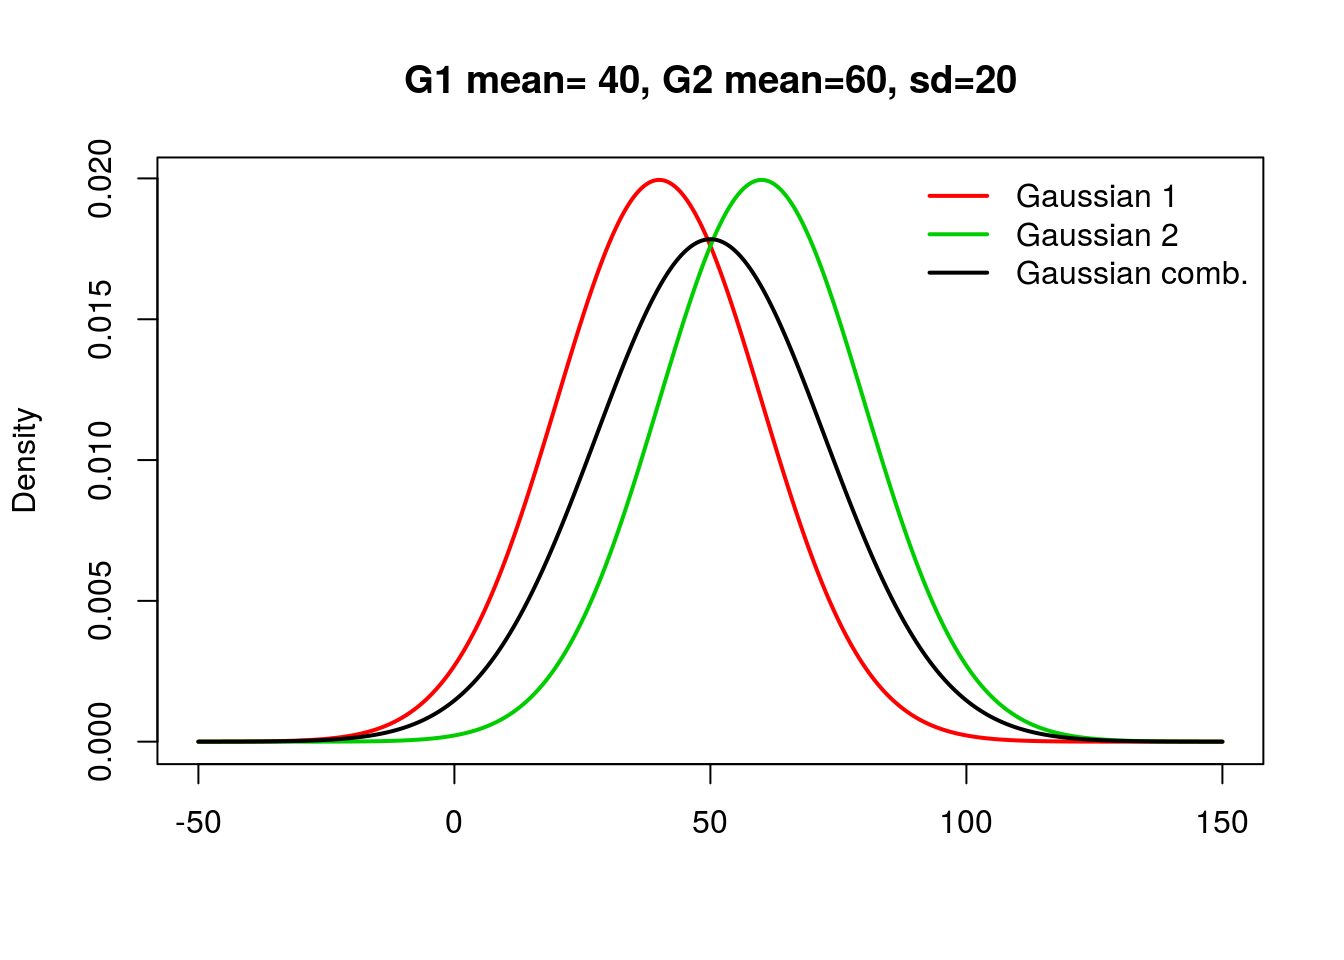
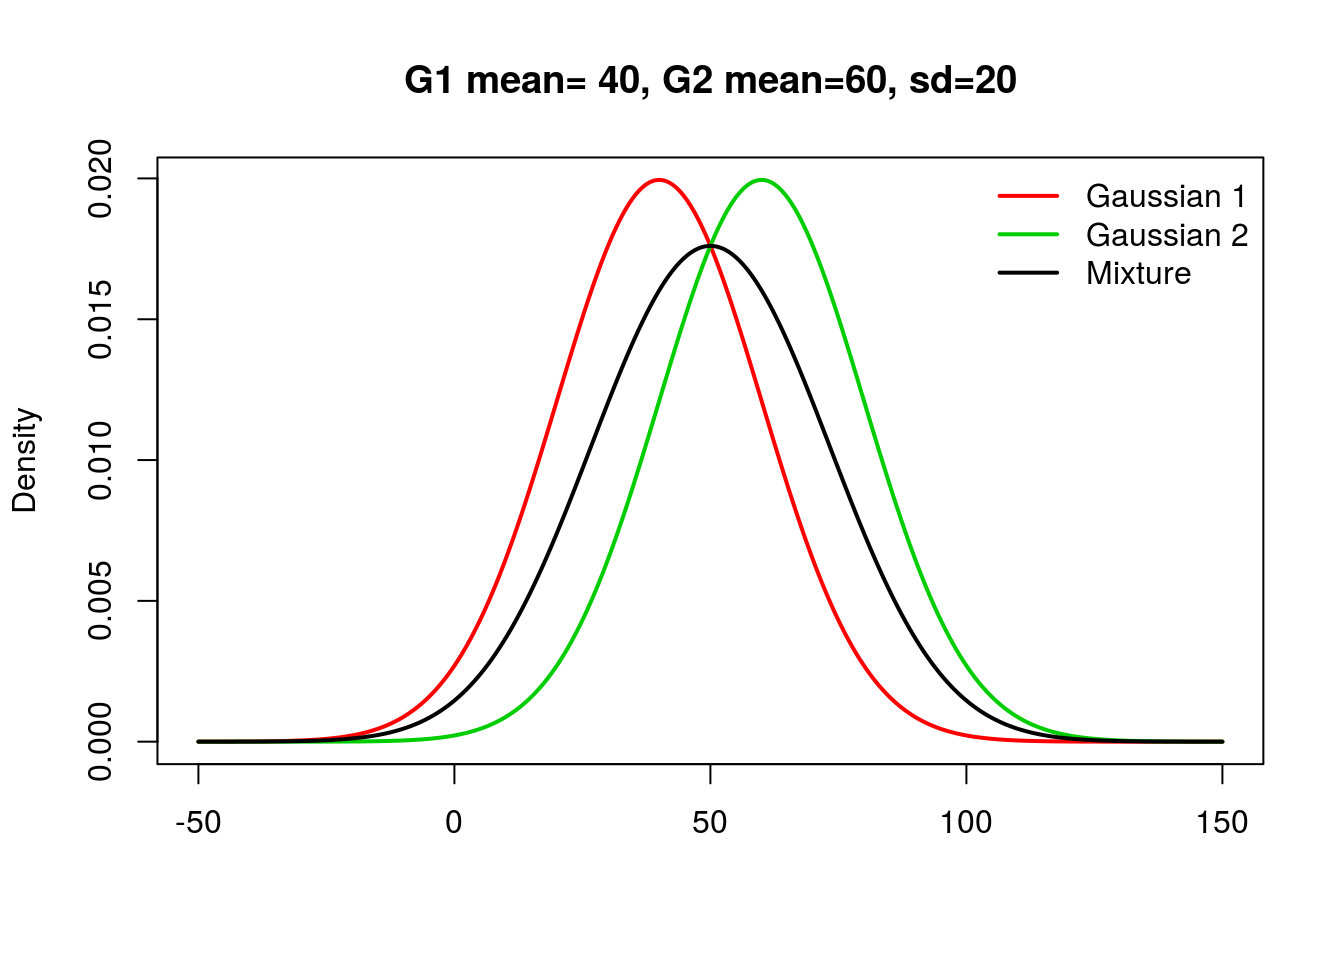
Update Estimating Moments of a Mixture post.

diff --git a/content/post/2018-04-10-estimating-moments-of-a-mixture-distribution.html b/content/post/2018-04-10-estimating-moments-of-a-mixture-distribution.html
@@ -36,16 +36,16 @@ weight.1</code></pre>
 <pre><code>## [1] 0.5</code></pre>
 <pre class="r"><code>weight.2</code></pre>
 <pre><code>## [1] 0.5</code></pre>
-<pre class="r"><code>Combined.mean &lt;- weight.1*Gaussian.1.mean + weight.2*Gaussian.2.mean
-Combined.sd &lt;- sqrt(weight.1*Gaussian.1.sd^2 + weight.2*Gaussian.2.sd^2 + weight.1*weight.2*(Gaussian.1.mean-Gaussian.2.mean)^2) 
+<pre class="r"><code>Mixture.mean &lt;- weight.1*Gaussian.1.mean + weight.2*Gaussian.2.mean
+Mixture.sd &lt;- sqrt(weight.1*Gaussian.1.sd^2 + weight.2*Gaussian.2.sd^2 + weight.1*weight.2*(Gaussian.1.mean-Gaussian.2.mean)^2) 
 
 
-Gaussian.combined &lt;- dnorm(x, mean = Combined.mean, sd = Combined.sd)
+Mixture &lt;- Gaussian.1 * weight.1 + Gaussian.2 * weight.2 
 
 plot(x, Gaussian.1, col=2, type=&quot;l&quot;,  xlab = &quot;&quot;, ylab=&quot;Density&quot;, lwd=2)
 lines(x, Gaussian.2, col=3, lwd=2)
-lines(x, Gaussian.combined, col=1, lwd=2)
-legend(&quot;toprigh&quot;, bty=&quot;n&quot;, col=c(2,3,1), c(&quot;Gaussian 1&quot;, &quot;Gaussian 2&quot;, &quot;Gaussian comb.&quot;), lty=1, lwd=2)</code></pre>
+lines(x, Mixture, col=1, lwd=2)
+legend(&quot;toprigh&quot;, bty=&quot;n&quot;, col=c(2,3,1), c(&quot;Gaussian 1&quot;, &quot;Gaussian 2&quot;, &quot;Mixture&quot;), lty=1, lwd=2)</code></pre>
 <p><img src="/post/2018-04-10-estimating-moments-of-a-mixture-distribution_files/figure-html/unnamed-chunk-2-1.png" width="672" /></p>
 </div>
 <div id="particular-cases" class="section level2">
@@ -59,22 +59,18 @@ for (sd in seq(10,30,10)){
   Gaussian.1 &lt;- dnorm(x, mean = Gaussian.1.mean, sd = Gaussian.1.sd)
   Gaussian.2 &lt;- dnorm(x, mean = Gaussian.2.mean, sd = Gaussian.2.sd)
   
-  
   weight.1 = (1/Gaussian.1.sd^2)/((1/Gaussian.1.sd^2)+(1/Gaussian.2.sd^2))
   weight.2 = (1/Gaussian.2.sd^2)/((1/Gaussian.1.sd^2)+(1/Gaussian.2.sd^2))
-  weight.1
-  weight.2
   
-  Combined.mean &lt;- weight.1*Gaussian.1.mean + weight.2*Gaussian.2.mean
-  Combined.sd &lt;- sqrt(weight.1*Gaussian.1.sd^2 + weight.2*Gaussian.2.sd^2 + weight.1*weight.2*(Gaussian.1.mean-Gaussian.2.mean)^2) 
+  Mixture.mean &lt;- weight.1*Gaussian.1.mean + weight.2*Gaussian.2.mean
+  Mixture.sd &lt;- sqrt(weight.1*Gaussian.1.sd^2 + weight.2*Gaussian.2.sd^2 + weight.1*weight.2*(Gaussian.1.mean-Gaussian.2.mean)^2) 
   
-  
-  Gaussian.combined &lt;- dnorm(x, mean = Combined.mean, sd = Combined.sd)
+  Mixture &lt;- Gaussian.1 * weight.1 + Gaussian.2 * weight.2 
   
   plot(x, Gaussian.1, col=2, type=&quot;l&quot;,  xlab = &quot;&quot;, ylab=&quot;Density&quot;, lwd=2, main=paste0(&quot;G1 mean= 40, G2 mean=60, sd=&quot;,sd))
   lines(x, Gaussian.2, col=3, lwd=2)
-  lines(x, Gaussian.combined, col=1, lwd=2)
-  legend(&quot;toprigh&quot;, bty=&quot;n&quot;, col=c(2,3,1), c(&quot;Gaussian 1&quot;, &quot;Gaussian 2&quot;, &quot;Gaussian comb.&quot;), lty=1, lwd=2)
+  lines(x, Mixture, col=1, lwd=2)
+  legend(&quot;toprigh&quot;, bty=&quot;n&quot;, col=c(2,3,1), c(&quot;Gaussian 1&quot;, &quot;Gaussian 2&quot;, &quot;Mixture&quot;), lty=1, lwd=2)
 }</code></pre>
 <p><img src="/post/2018-04-10-estimating-moments-of-a-mixture-distribution_files/figure-html/unnamed-chunk-3-1.png" width="672" /><img src="/post/2018-04-10-estimating-moments-of-a-mixture-distribution_files/figure-html/unnamed-chunk-3-2.png" width="672" /><img src="/post/2018-04-10-estimating-moments-of-a-mixture-distribution_files/figure-html/unnamed-chunk-3-3.png" width="672" /></p>
 <pre class="r"><code>Gaussian.1.sd &lt;- 10
@@ -87,22 +83,18 @@ for (i in seq(10,30,10)){
   Gaussian.1 &lt;- dnorm(x, mean = Gaussian.1.mean, sd = Gaussian.1.sd)
   Gaussian.2 &lt;- dnorm(x, mean = Gaussian.2.mean, sd = Gaussian.2.sd)
   
-  
   weight.1 = (1/Gaussian.1.sd^2)/((1/Gaussian.1.sd^2)+(1/Gaussian.2.sd^2))
   weight.2 = (1/Gaussian.2.sd^2)/((1/Gaussian.1.sd^2)+(1/Gaussian.2.sd^2))
-  weight.1
-  weight.2
   
-  Combined.mean &lt;- weight.1*Gaussian.1.mean + weight.2*Gaussian.2.mean
-  Combined.sd &lt;- sqrt(weight.1*Gaussian.1.sd^2 + weight.2*Gaussian.2.sd^2 + weight.1*weight.2*(Gaussian.1.mean-Gaussian.2.mean)^2) 
+  Mixture.mean &lt;- weight.1*Gaussian.1.mean + weight.2*Gaussian.2.mean
+  Mixture.sd &lt;- sqrt(weight.1*Gaussian.1.sd^2 + weight.2*Gaussian.2.sd^2 + weight.1*weight.2*(Gaussian.1.mean-Gaussian.2.mean)^2) 
   
-  
-  Gaussian.combined &lt;- dnorm(x, mean = Combined.mean, sd = Combined.sd)
+  Mixture &lt;- Gaussian.1 * weight.1 + Gaussian.2 * weight.2 
   
   plot(x, Gaussian.1, type=&quot;l&quot;, col=2,  xlab = &quot;&quot;, ylab=&quot;Density&quot;, lwd=2, main=paste0(&quot;G1 mean=&quot;,50-i, &quot;, G2 mean=&quot;,50+i, &quot;, sd=10&quot;))
   lines(x, Gaussian.2, col=3, lwd=2)
-  lines(x, Gaussian.combined, col=1, lwd=2)
-  legend(&quot;toprigh&quot;, bty=&quot;n&quot;, col=c(2,3,1), c(&quot;Gaussian 1&quot;, &quot;Gaussian 2&quot;, &quot;Gaussian comb.&quot;), lty=1, lwd=2)
+  lines(x, Mixture, col=1, lwd=2)
+  legend(&quot;toprigh&quot;, bty=&quot;n&quot;, col=c(2,3,1), c(&quot;Gaussian 1&quot;, &quot;Gaussian 2&quot;, &quot;Mixture&quot;), lty=1, lwd=2)
 }</code></pre>
 <p><img src="/post/2018-04-10-estimating-moments-of-a-mixture-distribution_files/figure-html/unnamed-chunk-4-1.png" width="672" /><img src="/post/2018-04-10-estimating-moments-of-a-mixture-distribution_files/figure-html/unnamed-chunk-4-2.png" width="672" /><img src="/post/2018-04-10-estimating-moments-of-a-mixture-distribution_files/figure-html/unnamed-chunk-4-3.png" width="672" /></p>
 <pre class="r"><code>Gaussian.1.mean &lt;- 40
@@ -115,21 +107,19 @@ for (i in seq(0,15,5)){
   Gaussian.1 &lt;- dnorm(x, mean = Gaussian.1.mean, sd = Gaussian.1.sd)
   Gaussian.2 &lt;- dnorm(x, mean = Gaussian.2.mean, sd = Gaussian.2.sd)
   
-  
   weight.1 = (1/Gaussian.1.sd^2)/((1/Gaussian.1.sd^2)+(1/Gaussian.2.sd^2))
   weight.2 = (1/Gaussian.2.sd^2)/((1/Gaussian.1.sd^2)+(1/Gaussian.2.sd^2))
 
-  Combined.mean &lt;- weight.1*Gaussian.1.mean + weight.2*Gaussian.2.mean
-  Combined.sd &lt;- sqrt(weight.1*Gaussian.1.sd^2 + weight.2*Gaussian.2.sd^2 + weight.1*weight.2*(Gaussian.1.mean-Gaussian.2.mean)^2) 
+  Mixture.mean &lt;- weight.1*Gaussian.1.mean + weight.2*Gaussian.2.mean
+  Mixture.sd &lt;- sqrt(weight.1*Gaussian.1.sd^2 + weight.2*Gaussian.2.sd^2 + weight.1*weight.2*(Gaussian.1.mean-Gaussian.2.mean)^2) 
   
-  
-  Gaussian.combined &lt;- dnorm(x, mean = Combined.mean, sd = Combined.sd)
+  Mixture &lt;- Gaussian.1 * weight.1 + Gaussian.2 * weight.2 
   
   plot(x, Gaussian.1, col=2, type=&quot;l&quot;,  xlab = &quot;&quot;, ylab=&quot;Density&quot;, lwd=2, main=paste0(&quot;G1 mean=&quot;,Gaussian.1.mean, &quot;, G2 mean=&quot;,Gaussian.2.mean, &quot;, G1 sd=&quot;,Gaussian.1.sd,&quot;, G2 sd=&quot;,Gaussian.2.sd ))
   lines(x, Gaussian.2, col=3, lwd=2)
-  lines(x, Gaussian.combined, col=1, lwd=2)
-  legend(&quot;toprigh&quot;, bty=&quot;n&quot;, col=c(2,3,1), c(&quot;Gaussian 1&quot;, &quot;Gaussian 2&quot;, &quot;Gaussian comb.&quot;), lty=1, lwd=2)
-  legend(&quot;topleft&quot;, paste0(&quot;combined sd &quot;, round(Combined.sd,2)), bty=&quot;n&quot;)
+  lines(x, Mixture, col=1, lwd=2)
+  legend(&quot;toprigh&quot;, bty=&quot;n&quot;, col=c(2,3,1), c(&quot;Gaussian 1&quot;, &quot;Gaussian 2&quot;, &quot;Mixture&quot;), lty=1, lwd=2)
+  legend(&quot;topleft&quot;, paste0(&quot;mixture sd &quot;, round(Mixture.sd,2)), bty=&quot;n&quot;)
 }</code></pre>
 <p><img src="/post/2018-04-10-estimating-moments-of-a-mixture-distribution_files/figure-html/unnamed-chunk-5-1.png" width="672" /><img src="/post/2018-04-10-estimating-moments-of-a-mixture-distribution_files/figure-html/unnamed-chunk-5-2.png" width="672" /><img src="/post/2018-04-10-estimating-moments-of-a-mixture-distribution_files/figure-html/unnamed-chunk-5-3.png" width="672" /><img src="/post/2018-04-10-estimating-moments-of-a-mixture-distribution_files/figure-html/unnamed-chunk-5-4.png" width="672" /></p>
 <pre class="r"><code>Gaussian.1.mean &lt;- 50
@@ -144,17 +134,15 @@ Gaussian.2 &lt;- dnorm(x, mean = Gaussian.2.mean, sd = Gaussian.2.sd)
 weight.1 = (1/Gaussian.1.sd^2)/((1/Gaussian.1.sd^2)+(1/Gaussian.2.sd^2))
 weight.2 = (1/Gaussian.2.sd^2)/((1/Gaussian.1.sd^2)+(1/Gaussian.2.sd^2))
 
+Mixture.mean &lt;- weight.1*Gaussian.1.mean + weight.2*Gaussian.2.mean
+Mixture.sd &lt;- sqrt(weight.1*Gaussian.1.sd^2 + weight.2*Gaussian.2.sd^2 + weight.1*weight.2*(Gaussian.1.mean-Gaussian.2.mean)^2) 
 
-Combined.mean &lt;- weight.1*Gaussian.1.mean + weight.2*Gaussian.2.mean
-Combined.sd &lt;- sqrt(weight.1*Gaussian.1.sd^2 + weight.2*Gaussian.2.sd^2 + weight.1*weight.2*(Gaussian.1.mean-Gaussian.2.mean)^2) 
-
-
-Gaussian.combined &lt;- dnorm(x, mean = Combined.mean, sd = Combined.sd)
+Mixture &lt;- Gaussian.1 * weight.1 + Gaussian.2 * weight.2 
 
 plot(x, Gaussian.1, col=2, type=&quot;l&quot;,  xlab = &quot;&quot;, ylab=&quot;Density&quot;, lwd=2, main=paste0(&quot;G1 mean=&quot;,Gaussian.1.mean, &quot;, G2 mean=&quot;,Gaussian.2.mean, &quot;, G1 sd=&quot;,Gaussian.1.sd,&quot;, G2 sd=&quot;,Gaussian.2.sd ))
 lines(x, Gaussian.2, col=3, lwd=2)
-lines(x, Gaussian.combined, col=1, lwd=2)
-legend(&quot;toprigh&quot;, bty=&quot;n&quot;, col=c(2,3,1), c(&quot;Gaussian 1&quot;, &quot;Gaussian 2&quot;, &quot;Gaussian comb.&quot;), lty=1, lwd=2)
-legend(&quot;topleft&quot;, paste0(&quot;combined sd &quot;, round(Combined.sd,2)), bty=&quot;n&quot;)</code></pre>
+lines(x, Mixture, col=1, lwd=2)
+legend(&quot;toprigh&quot;, bty=&quot;n&quot;, col=c(2,3,1), c(&quot;Gaussian 1&quot;, &quot;Gaussian 2&quot;, &quot;Mixture&quot;), lty=1, lwd=2)
+legend(&quot;topleft&quot;, paste0(&quot;mixture sd &quot;, round(Mixture.sd,2)), bty=&quot;n&quot;)</code></pre>
 <p><img src="/post/2018-04-10-estimating-moments-of-a-mixture-distribution_files/figure-html/unnamed-chunk-6-1.png" width="672" /></p>
 </div>

diff --git a/content/post/2018-04-02-produce-a-nice-map-in-r.html b/content/post/2018-04-02-produce-a-nice-map-in-r.html
@@ -12,4 +12,5 @@ tags:
 
 
 
-
+<pre><code>## integer(0)</code></pre>
+<p><img src="/post/2018-04-02-produce-a-nice-map-in-r_files/figure-html/unnamed-chunk-1-1.png" width="672" /></p>
